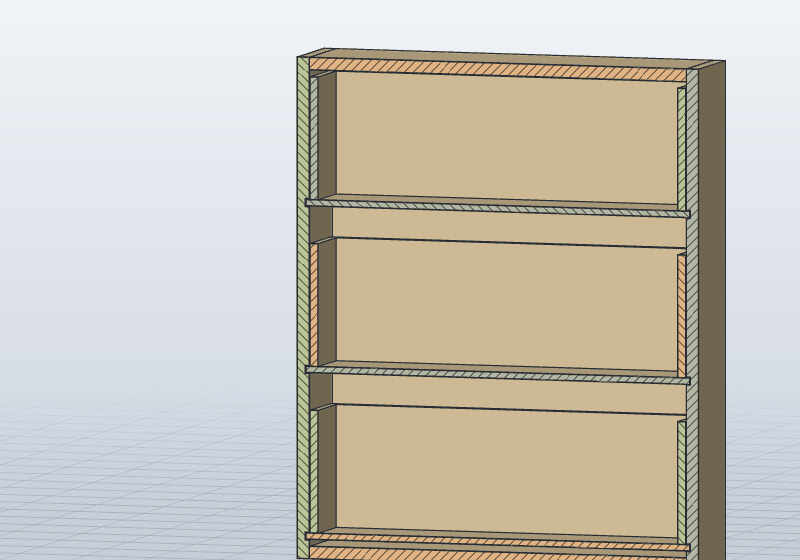
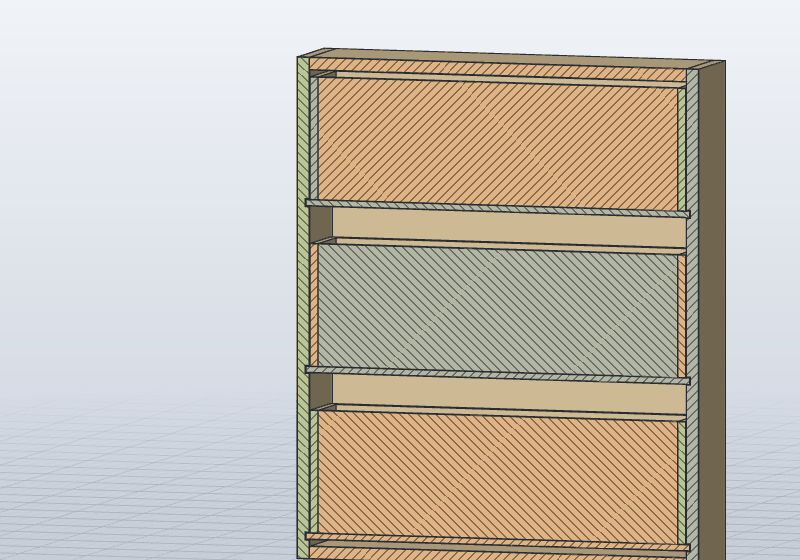
Runner drawers: a false back at four fifths of the box's depth (#270)
* Runner drawers: a false back at four fifths of the box's depth (#258)

* Runner drawers: refuse a box too shallow for its false back to clear the box's back

Changed region(s): [[0.375, 0.425, 0.875, 0.6982], [0.375, 0.1214, 0.8438, 0.3946], [0.375, 0.7286, 0.8438, 0.9714]]

diff --git a/src/cabinet/tests.rs b/src/cabinet/tests.rs
@@ -1222,6 +1222,33 @@ fn runner_drawers_stop_against_the_back_and_slides_keep_their_room() {
 }
 
 #[test]
+fn runner_drawers_have_a_false_back_at_four_fifths_of_the_box() {
+    // #258: on dado and strip runners, between the sides, as high as them, its front face at
+    // 0.8 of the box's depth; drawers on slides have none
+    for slide in ["wood", "strips"] {
+        let (commands, _) = build(&json!({"drawers": 2, "slide_type": slide})).unwrap();
+        for i in [1, 2] {
+            let stop = named(&commands, &format!("Cabinet Drawer {i} False back"));
+            let left = named(&commands, &format!("Cabinet Drawer {i} Left"));
+            assert_eq!(stop["width"], "Cabinet_drawer_thickness", "{slide}");
+            assert_eq!(stop["height"], left["height"], "{slide}");
+            assert_eq!(stop["corner"][2], left["corner"][2], "{slide}");
+            let y = stop["corner"][1].as_str().unwrap();
+            assert!(y.contains("+ 0.8*"), "{slide}: {y}");
+        }
+    }
+    let (commands, _) = build(&json!({"drawers": 2})).unwrap();
+    assert!(!has(&commands, "Cabinet Drawer 1 False back"));
+    // a shallow sink base's half-depth box (141 mm): 18 mm boards would put the false back
+    // into the box's back, 12 mm ones leave it clear
+    for slide in ["wood", "strips"] {
+        let p = |bt: f64| json!({"kind": "sink", "depth": 300, "drawers": 2, "slide_type": slide, "drawer_thickness": bt});
+        assert!(build(&p(18.0)).is_err(), "{slide}");
+        assert!(build(&p(12.0)).is_ok(), "{slide}");
+    }
+}
+
+#[test]
 fn strip_runners_carry_the_bottom_on_a_strip_on_each_side() {
     let p = json!({"drawers": 2, "slide_type": "strips"});
     let (commands, _) = build(&p).unwrap();

diff --git a/src/cabinet/drawers.rs b/src/cabinet/drawers.rs
@@ -13,6 +13,7 @@ pub const SLIDE: f64 = 12.7; // ball-bearing drawer slide, each side
 pub const BOX_CLEAR: f64 = 8.0;
 pub const BOX_BEHIND: f64 = 10.0; // room behind a box on slides, which stop it themselves
 const HANDLE_EDGE: f64 = 40.0; // a handle at the top or bottom: from the front's edge
+pub const FALSE_BACK: f64 = 0.8; // a runner drawer's false back: its front face at this of the box depth
 
 /// A stack of drawers: a front, overlay or inset, and behind it a box that runs on slides. They
 /// are alike, or the top one is `drawer_height` and the rest share what is left, or beside
@@ -386,6 +387,16 @@ pub fn build(cabinet: &Cabinet) {
             [&end_x, &back_y, &bz],
             [&end_w, &bt, &back_h],
         );
+        // Runner and strip drawers (#258): a false back between the sides, as high as them, its
+        // front face at `FALSE_BACK` of the box depth: a stop line that keeps the contents in the
+        // front part, as a runner drawer pulled too far tips out.
+        if wood.is_some() {
+            panel(
+                &format!("{drawer} False back"),
+                [&inner_x, &format!("{y} + {FALSE_BACK}*{box_d}"), &bz],
+                [&inner_w, &bt, &side_h],
+            );
+        }
         if fingers {
             // The four upright corners: an odd count of fingers as wide as the boards are
             // thick, the sides keeping the outer ones; one box cut per board at each corner and

diff --git a/tests/test_fronts.py b/tests/test_fronts.py
@@ -342,6 +342,12 @@ def test_wooden_runners(approval):
     assert (round(bottom[0], 3), round(bottom[3], 3)) == (-300 + 13, 300 - 13), bottom
     assert shut["Cabinet Drawer 1 Left"][0] == -300 + 19 and shut["Cabinet Drawer 1 Left"][2] == bottom[5]
     assert abs(out["Cabinet Drawer 1 Front"][1] - (shut["Cabinet Drawer 1 Front"][1] - 363)) < 0.01
+    # the false back (#258): between the box's sides, as high as them, its front face at
+    # four fifths of the 544 mm box from the box's front; a board of the cut list
+    stop, left, box = shut["Cabinet Drawer 1 False back"], shut["Cabinet Drawer 1 Left"], shut["Cabinet Drawer 1 Box front"]
+    assert abs(stop[1] - (box[1] + 0.8 * 544)) < 0.01, (stop, box)
+    assert round(stop[0], 3) == round(left[3], 3) and (stop[2], stop[5]) == (left[2], left[5]), (stop, left)
+    assert "Cabinet Drawer 1 False back" in [n for p in results[5]["result"]["parts"] for n in p["parts"]]
     # each side loses two grooves of 6 x 8 mm, front to back
     side = volume(results[2], "Cabinet Side L")
     assert side < 720 * 560 * 18 - 2 * 6 * 8 * 500, side

diff --git a/src/cabinet/input.rs b/src/cabinet/input.rs
@@ -1,6 +1,6 @@
 //! Reads and checks the dialog's fields. The numbers here only check the input.
 
-use super::drawers::{BOX_BEHIND, BOX_CLEAR, SLIDE};
+use super::drawers::{BOX_BEHIND, BOX_CLEAR, FALSE_BACK, SLIDE};
 use super::{GROOVE_INSET, RAIL_D};
 use crate::fittings::{DOOR_GAP, PITCH};
 use crate::kit::{check, num, Kit};
@@ -514,6 +514,11 @@ pub fn read<'a>(kit: &Kit, p: &'a Value) -> Result<Input<'a>, String> {
     check(
         !under || drawers == 0.0 || box_t[0] <= 16.0,
         "undermount slides need drawer box sides of 16 mm or less",
+    )?;
+    // the false back (#258) must stand clear in front of the box's back
+    check(
+        !wood || drawers == 0.0 || FALSE_BACK * box_d + box_t[0] <= box_d - box_t[0],
+        "too shallow for runner drawers: the false back would run into the box's back",
     )?;
     check(
         wood || under || drawers == 0.0 || box_d >= MIN_SLIDE,

diff --git a/scripts/usage_pictures.py b/scripts/usage_pictures.py
@@ -144,6 +144,10 @@ SHOTS = [
     ("strip-runners", "Strip runners: each drawer's bottom rests on a wooden strip on each side, no groove.",
      [lambda: run("settings", {"slide_type": "strips", "drawer_bottom": 9}), lambda: run("cabinet", {"drawers": 3})],
      [*cam([-100, 0, 420], 1000, yaw=-0.3, pitch=0.1), "--section", "y=150,flip"]),
+    ("false-back", "Runner drawers cut through: each box's false back at four fifths of its depth.",
+     [lambda: run("settings", {"slide_type": "wood", "drawer_bottom": 9}),
+      lambda: run("cabinet", {"drawers": 3, "plinth": 100, "handles": "pull"})],
+     [*cam([0, 0, 420], 1400, yaw=-1.2), "--section", "YZ"]),
     ("corner", "An L-shaped corner cabinet with a pair of folding doors.",
      [lambda: run("corner", {"doors": "hinged left", **BASE})], CORNER),
     ("corner-diagonal", "A diagonal corner cabinet: one door across the corner.",

diff --git a/docs/usage.md b/docs/usage.md
@@ -254,6 +254,16 @@ needs them. Change one in Parameters and every cabinet's holes follow:
   ![Strip runners: each drawer's bottom rests on a wooden strip on each side, no groove.](images/strip-runners.png)
 
   *Strip runners: each drawer's bottom rests on a wooden strip on each side, no groove.*
+- **False back** (dado and strip runners, #258): a runner drawer has no stop, and pulled too far
+  it tips out. So each runner drawer's box gets a second back inside it,
+  `Name Drawer 1 False back`: a board between the box's sides, as high as them and as thick as
+  the box's boards, its front face at four fifths of the box's depth. It marks how far the
+  drawer may come out and keeps what is in it in the front four fifths. It follows a resize and
+  is a board in the cut list. Drawers on slides have none.
+
+  ![A runner drawer pulled out: its false back at four fifths of the box's depth.](images/false-back.png)
+
+  *A runner drawer pulled out: its false back at four fifths of the box's depth.*
 - **Slide length** (Auto, set by the cabinet's depth): the standard side-mount
   ball-bearing lengths, 250, 270 and 300 to 650 mm in steps of 50, or 10 to 28 in in steps of
   2. **Auto**

diff --git a/PLAN.md b/PLAN.md
@@ -164,6 +164,7 @@ Cabinets:
 - [x] Drawer side and back heights (#221): lower box sides and back in Woodwork settings, parameters capped by the box and the sides
 - [x] Grooved fronts (#182): vertical or horizontal, square, round or V grooves on doors and drawer fronts, the count following a resize
 - [x] Strip runners (#146): Slide type Strip runners, a 12 x 18 mm strip on each side under each drawer, the bottom wider than the box resting on them, no groove; strips in the cut list (screw holes not drilled)
+- [x] False back in runner drawers (#258): a board between the box's sides at four fifths of its depth, on dado and strip runners
 - [ ] Undermount slides (box width less 42, notches, rear hook holes), and the cup's screw holes
 - [x] Doors meeting on a divider: with three doors or more the end doors hinge on the sides, and a door hinged on a divider gets half overlay hinges (the 9.5 mm cranked model, its own line in the hardware list) (#157)
 - [x] Double dividers where overlay doors meet, so every door gets full overlay hinges (#176)
